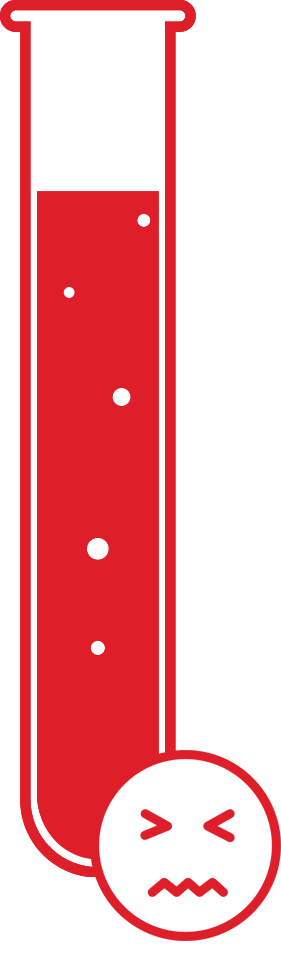
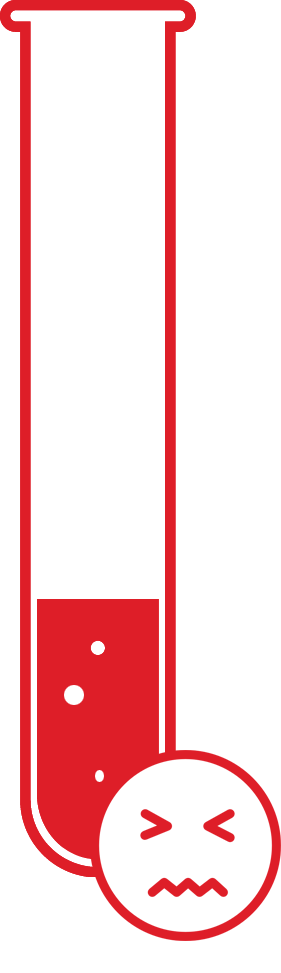
add new tubes in history page
-- show glucose data in parent-status page regarding the result

Changed region(s): [[0.1139, 0.185, 0.5694, 0.6166], [0.2278, 0.6783, 0.3132, 0.74], [0.3416, 0.7708, 0.3701, 0.8016]]

diff --git a/src/scripts/functions.js b/src/scripts/functions.js
@@ -143,6 +143,18 @@ function updateParentStatus() {
     $( getDataComponent("parent-status") + " .glucose-data .time").html(measurements[0].time);
     $( getDataComponent("parent-status") + " .glucose-data .value").html(measurements[0].value);
     $( getDataComponent("parent-status") + " .feedback .message").html(measurements[0].feedbackΜessage);
+
+    if (measurements[0].feedbackΜessage == measurementMessage[0]) {
+        $( getDataComponent("parent-status") + " .glucose-data").removeClass("ok high");
+        $( getDataComponent("parent-status") + " .glucose-data").addClass("low");
+    } else if (measurements[0].feedbackΜessage == measurementMessage[1]) {
+        $( getDataComponent("parent-status") + " .glucose-data").removeClass("ok low");
+        $( getDataComponent("parent-status") + " .glucose-data").addClass("high");
+    } else {
+        $( getDataComponent("parent-status") + " .glucose-data").removeClass("low high");
+        $( getDataComponent("parent-status") + " .glucose-data").addClass("ok");
+    }
+
 }
 
 // notify kid for measurement after specific seconds

diff --git a/src/styles/components/parent-mode/parent-status.scss b/src/styles/components/parent-mode/parent-status.scss
@@ -3,6 +3,7 @@
         flex: 1 0 auto;  
 
         .glucose-tube {
+            position: relative;
             width: 100%;
             display: flex;
             justify-content: center;
@@ -14,13 +15,27 @@
             .glucose-data {
                 position: absolute;
                 left: 6em;
-                right:0;
+                right: 0;
                 margin-left:auto;
                 margin-right:auto;
-                margin-top: 2.95em;
                 width: 6em;
-                border-top: 2px solid $red;
                 padding-left: 2em;
+                
+                &.low {
+                    top: 4.35em;
+                    border-bottom: 2px solid $red;
+                    padding-bottom: 0.5em;
+                }
+
+                &.high {
+                    top: 2.95em;
+                    border-top: 2px solid $red;
+                }
+
+                &.ok {
+                    top: 6.5em;
+                    border-top: 2px solid $red;
+                }
 
                 .value {
                     color: $red;

diff --git a/src/components/parent-status.html b/src/components/parent-status.html
@@ -7,7 +7,7 @@
 <div class="body">
     <div class="glucose-tube">
         <img src="assets/tube-high.png" alt="">
-        <div class="glucose-data">
+        <div class="glucose-data high">
             <div class="column">
                 <span class="value">8.2</span>
                 <span class="title">glucose (mmol/l)</span>
